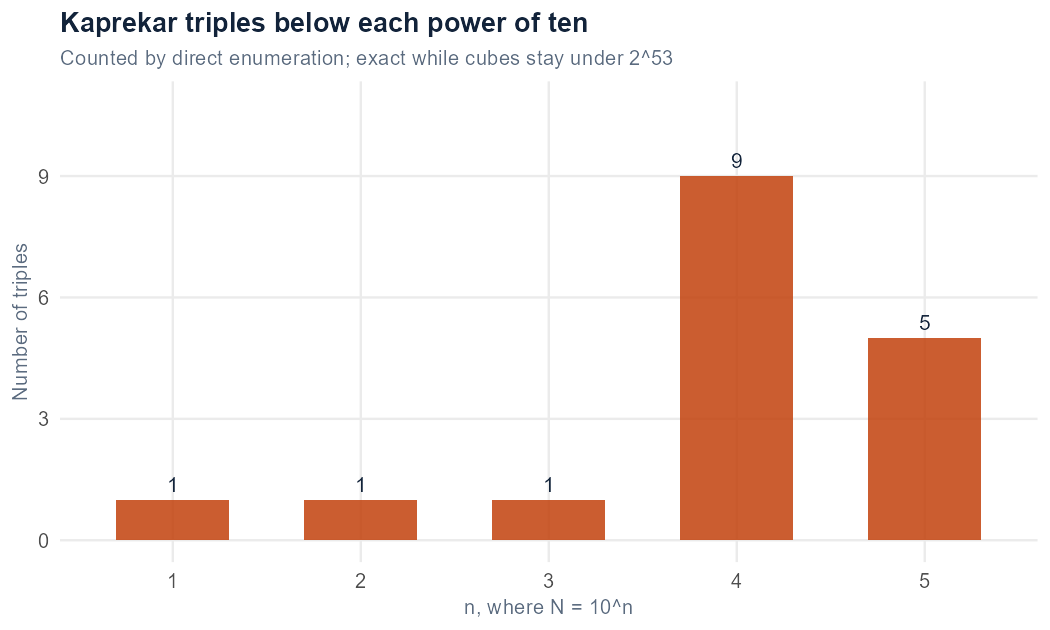
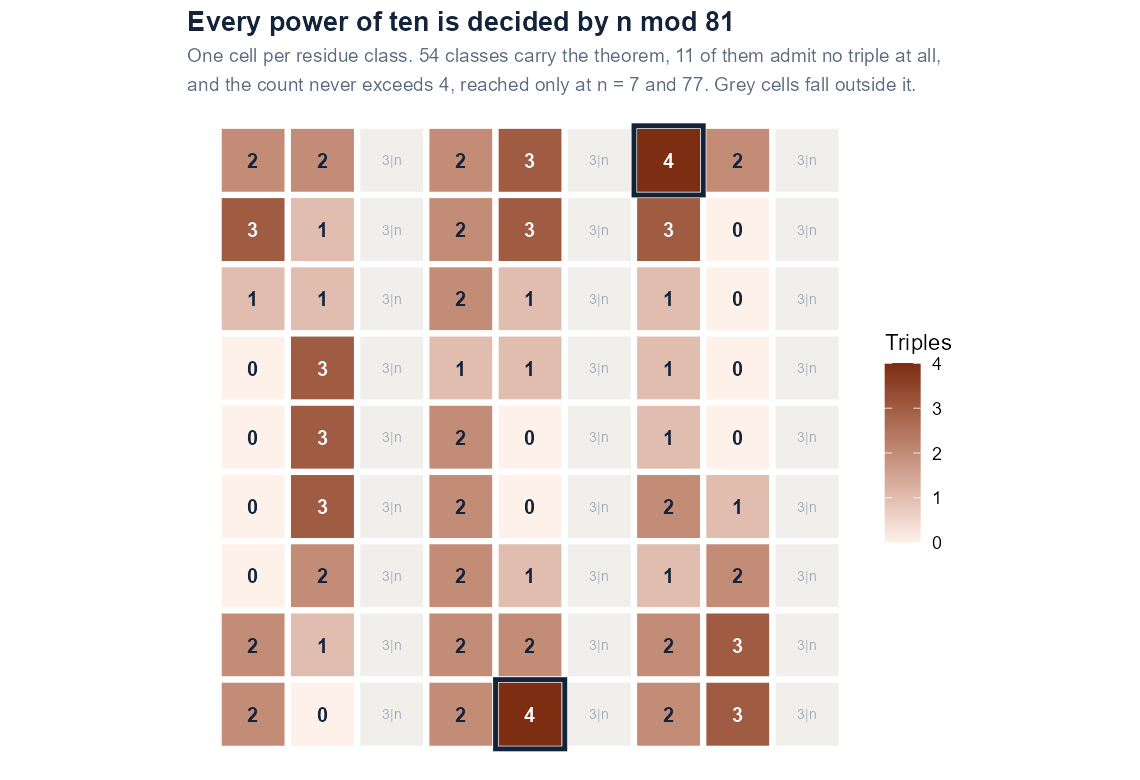
Show the thesis structure instead of counting five numbers
The Kaprekar figure was a bar chart of 1, 1, 1, 9, 5, which made a
research thesis look like a counting exercise. It is now the mod 81
residue grid: every class the theorem covers, shaded by how many triples
it admits, with the two classes reaching four outlined and the classes
divisible by three left grey.

The grid comes from kt_period_table() in the thesis PARI/GP program,
re-run by the figure script so it cannot drift, falling back to a
committed CSV where the interpreter is absent. The self-test passes and
the R enumeration still cross-checks the small exponents.

Two parsing traps caught on the way: empty classes print a trailing
"EMPTY" annotation that a colon split swallows into the count, turning
all eleven zeros into NA; and geom_tile infers its size from data
resolution, so two highlighted cells were drawn eight rows tall.

diff --git a/index.html b/index.html
@@ -324,15 +324,26 @@
           8 is the smallest, because 8<sup>3</sup> = 512 splits as 5, 1 and 2.
         </p>
         <p>
-          The central result turns an infinite search into a finite one by proving
-          every triple is a root of a congruence. That bounds the count at four for
-          each power of ten and rules out eleven residue classes entirely.
+          The central result turns an infinite search into a finite one. Every
+          triple has to be a root of a congruence, which replaces a sweep over
+          all of 10<sup>n</sup> with a handful of candidates decided by one cube
+          and two divisions.
+        </p>
+        <p>
+          What falls out is periodic. Because 10 has order 81 modulo 3<sup>6</sup>,
+          the answer for a power of ten depends only on
+          <strong>n mod 81</strong>. Of the 54 classes the theorem covers, the
+          count <strong>never exceeds four</strong>, reaches four in only two of
+          them, and <strong>eleven classes admit no triple at all</strong>. The
+          grid is the whole theorem in one picture.
         </p>
         <p>
           I work to a rule on this project: nothing counts until two separately
           written programs agree on it. That caught a counting error in my own
-          code which had understated a maximum by a third, and it is why the
-          counts below were checked a second way before being shown.
+          code which had understated a maximum by a third. The program carries a
+          self-test that runs before anything is trusted, and the class counts
+          are cross-checked against brute-force enumeration for the small
+          exponents where a cube still fits in a double.
         </p>
         <div class="tags">
           <span class="tag">PARI/GP</span><span class="tag">R</span>
@@ -341,10 +352,12 @@
       </div>
       <div class="project-media">
         <figure class="panel">
-          <img src="assets/img/fig-kaprekar.png" alt="Bar chart of the number of Kaprekar triples below each power of ten, from n equals one to five.">
+          <img src="assets/img/fig-kaprekar.png" alt="A nine by nine grid of the residue classes modulo 81, each cell shaded by how many Kaprekar triples that class admits, with the two classes reaching four outlined and the classes divisible by three greyed out.">
           <figcaption>
-            Counted by direct enumeration in R, exact while cubes stay below
-            2<sup>53</sup>. The single triple below 10 is 8; below 10,000 there are nine.
+            Produced by <code>kt_period_table()</code> in the thesis PARI/GP
+            program, re-run by the figure script so the grid cannot drift from
+            the source. The interval of classes divisible by three lies outside
+            the theorem and is left grey.
           </figcaption>
         </figure>
       </div>
